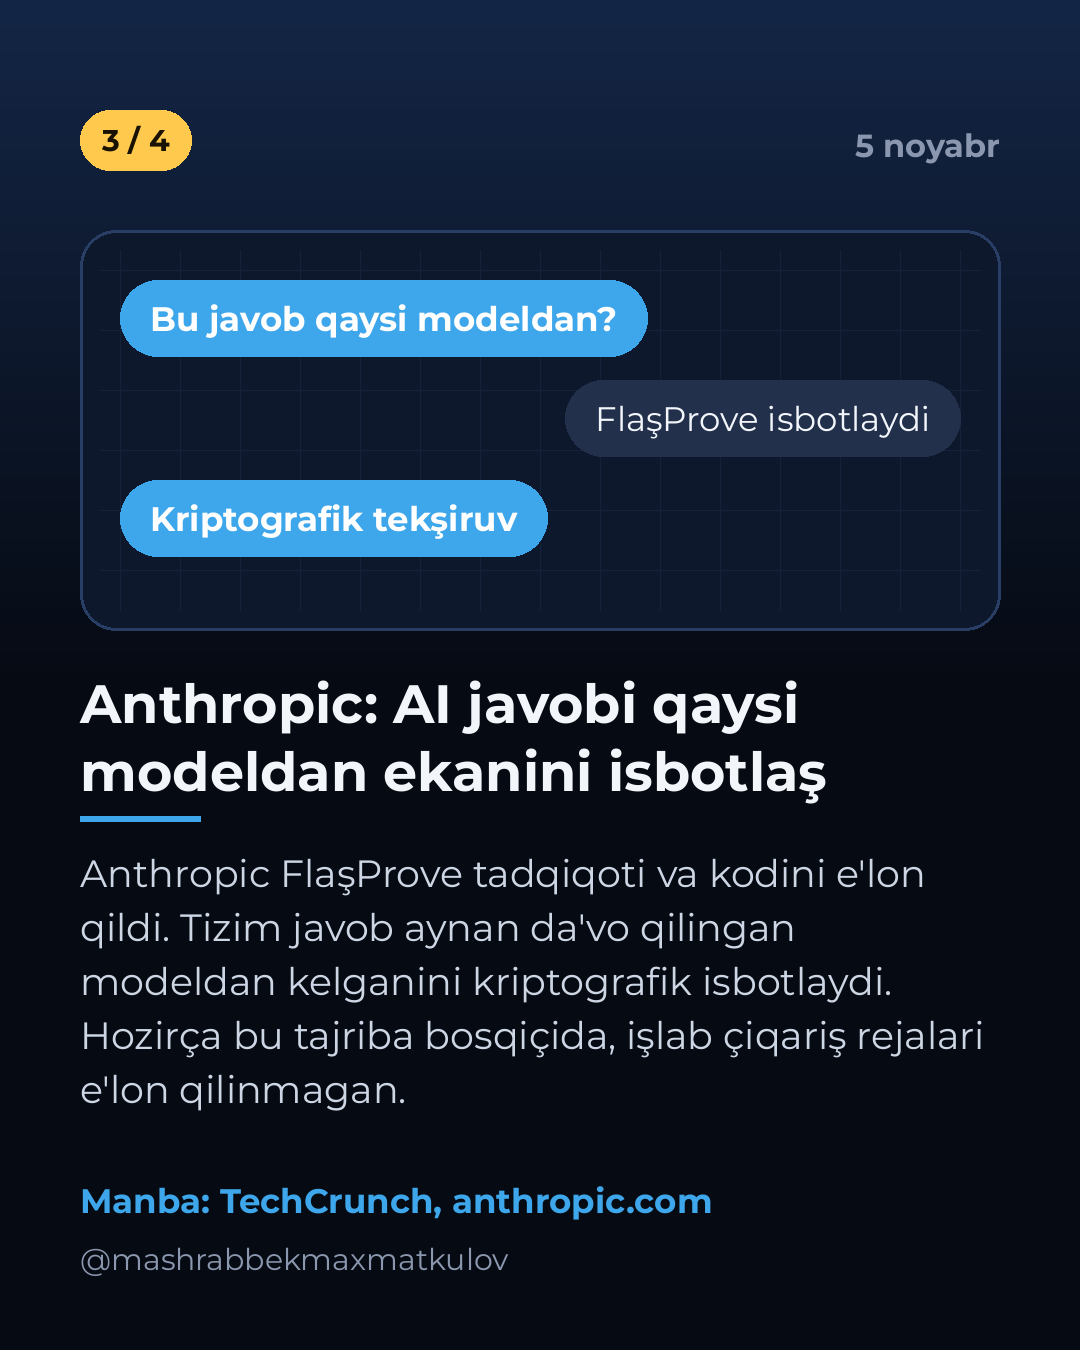
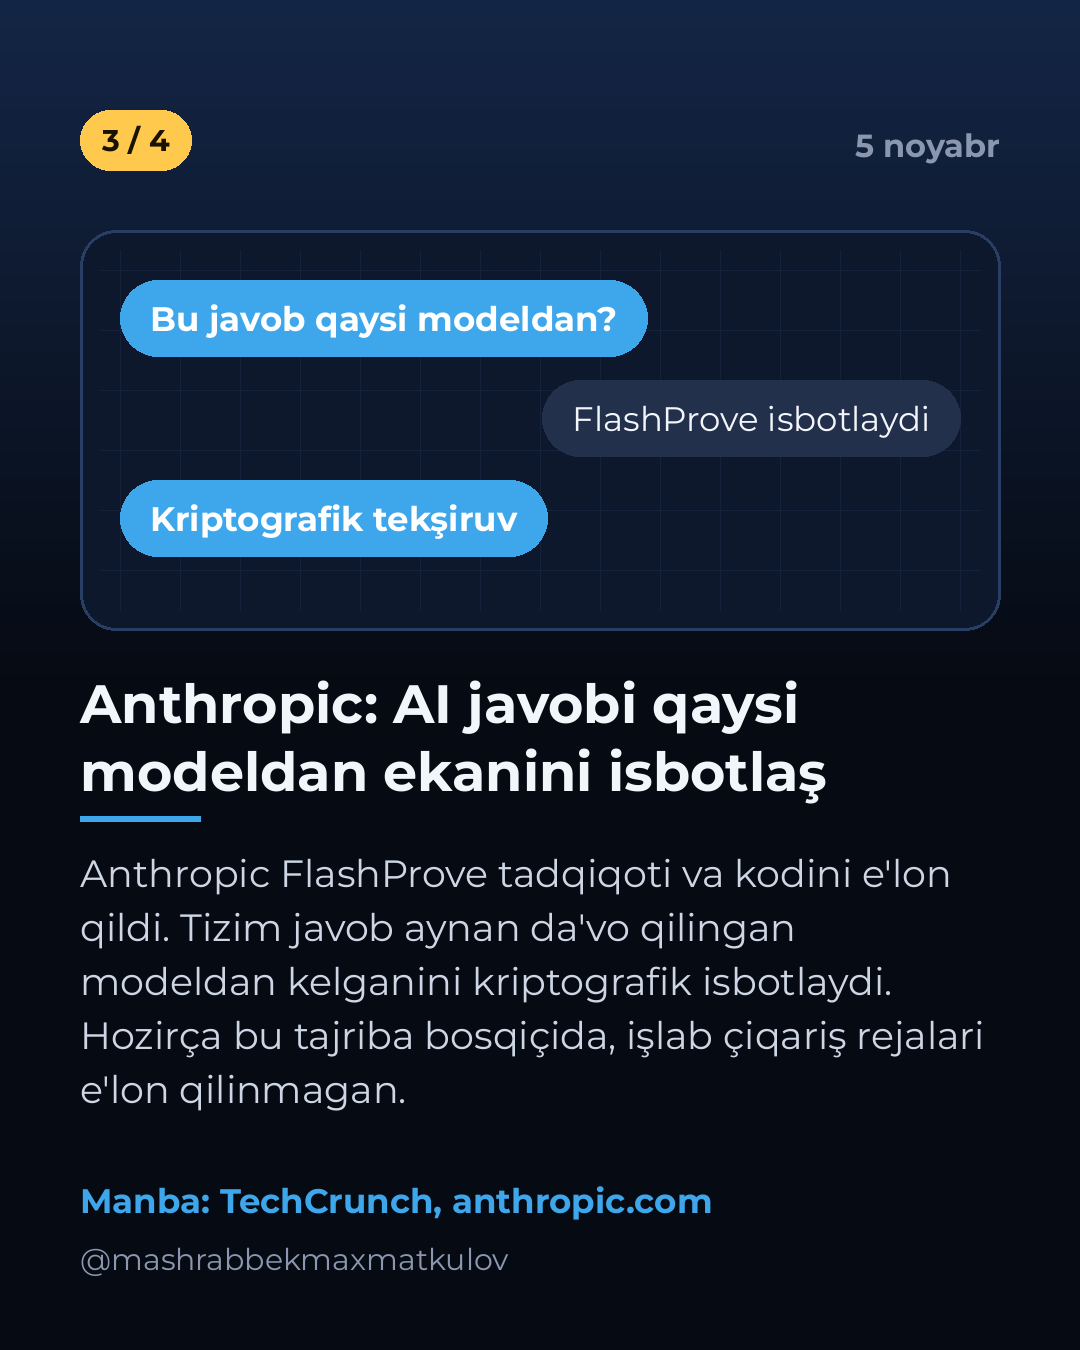
FlashProve nomini saqlash

diff --git a/tools/news_carousel.py b/tools/news_carousel.py
@@ -11,7 +11,7 @@ f = lambda p, s: ImageFont.truetype(p, s)
 W, H = 1080, 1350
 import re
 def uzc(t):  # ö ğ ç ş qoidasi (kanal va video matnlari); @handle va havolalar o'zgarmaydi
-    parts = re.split(r'(@\S+|https?://\S+|\S+\.(?:com|uz|org|io)\S*|\S*\+\S*|\b(?:Shift|Compress|Heading|References|Data|Sort|Zip|Windows|Word|Excel|Research|Reuters|TechCrunch|ChatGPT|Microsoft|Branch)\b)', t)
+    parts = re.split(r'(@\S+|https?://\S+|\S+\.(?:com|uz|org|io)\S*|\S*\+\S*|\b(?:Shift|Compress|Heading|References|Data|Sort|Zip|Windows|Word|Excel|Research|Reuters|TechCrunch|ChatGPT|Microsoft|Branch|FlashProve)\b)', t)
     return ''.join(x if i % 2 else _uzc(x) for i, x in enumerate(parts))
 def _uzc(t):
     for a, b in (("o'", 'ö'), ('o‘', 'ö'), ('oʻ', 'ö'), ("O'", 'Ö'), ('O‘', 'Ö'), ("g'", 'ğ'), ('g‘', 'ğ'), ('gʻ', 'ğ'), ("G'", 'Ğ')):
